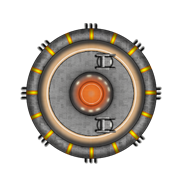
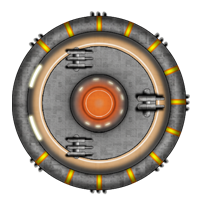
1
1

diff --git a/graphics.js b/graphics.js
@@ -202,7 +202,7 @@ window.graphics = {
 		this.images.xorr.src = "shipIcons/xorr.png";
 
 		this.images.ximm = new Image();
-		this.images.ximm.src = "shipIcons/xorr.png";
+		this.images.ximm.src = "shipIcons/ximm.png";
 
 		this.images.xvell = new Image();
 		this.images.xvell.src = "shipIcons/xvell.png";

diff --git a/server/ships/xonn.php b/server/ships/xonn.php
@@ -27,38 +27,38 @@ class Xonn extends SuperHeavy {
 		$structs = array();
 
 		$front = new Structure($this->getId(), $this->id, 315, 45, 625, 18, 5);
-		$front->systems[] = new AntiProtonPulsar($this->getId(), $this->id, 300, 60);
-		$front->systems[] = new AntiProtonPulsar($this->getId(), $this->id, 300, 60);
+		$front->systems[] = new MediumAntiProtonPulsar($this->getId(), $this->id, 300, 60);
+		$front->systems[] = new MediumAntiProtonPulsar($this->getId(), $this->id, 300, 60);
 		$front->systems[] = new AntimatterCannon($this->getId(), $this->id, 315, 45);
-		$front->systems[] = new AntiProtonPulsar($this->getId(), $this->id, 300, 60);
-		$front->systems[] = new AntiProtonPulsar($this->getId(), $this->id, 300, 60);
+		$front->systems[] = new MediumAntiProtonPulsar($this->getId(), $this->id, 300, 60);
+		$front->systems[] = new MediumAntiProtonPulsar($this->getId(), $this->id, 300, 60);
 		$structs[] = $front;
 
 		$right = new Structure($this->getId(), $this->id, 45, 135, 800, 18, 1);
-		$right->systems[] = new AntiProtonPulsar($this->getId(), $this->id, 30, 150);
-		$right->systems[] = new AntiProtonPulsar($this->getId(), $this->id, 30, 150);
+		$right->systems[] = new MediumAntiProtonPulsar($this->getId(), $this->id, 30, 150);
+		$right->systems[] = new MediumAntiProtonPulsar($this->getId(), $this->id, 30, 150);
 		$right->systems[] = new AntimatterCannon($this->getId(), $this->id, 45, 135);
-		$right->systems[] = new AntiProtonPulsar($this->getId(), $this->id, 30, 150);
-		$right->systems[] = new AntiProtonPulsar($this->getId(), $this->id, 30, 150);
+		$right->systems[] = new MediumAntiProtonPulsar($this->getId(), $this->id, 30, 150);
+		$right->systems[] = new MediumAntiProtonPulsar($this->getId(), $this->id, 30, 150);
 		$structs[] = $right;
 
 		$aft = new Structure($this->getId(), $this->id, 135, 225, 550, 18, 4);
-		$aft->systems[] = new AntiProtonPulsar($this->getId(), $this->id, 120, 240);
+		$aft->systems[] = new MediumAntiProtonPulsar($this->getId(), $this->id, 120, 240);
 		$aft->systems[] = new Hangar($this->getId(), $this->id, 15, array("Zorth"), 15, 2);
-		$aft->systems[] = new AntiProtonPulsar($this->getId(), $this->id, 120, 240);
-	/*	$aft->systems[] = new AntiProtonPulsar($this->getId(), $this->id, 120, 240);
-		$aft->systems[] = new AntiProtonPulsar($this->getId(), $this->id, 120, 240);
+		$aft->systems[] = new MediumAntiProtonPulsar($this->getId(), $this->id, 120, 240);
+	/*	$aft->systems[] = new MediumAntiProtonPulsar($this->getId(), $this->id, 120, 240);
+		$aft->systems[] = new MediumAntiProtonPulsar($this->getId(), $this->id, 120, 240);
 		$aft->systems[] = new AntimatterCannon($this->getId(), $this->id, 135, 225);
-		$aft->systems[] = new AntiProtonPulsar($this->getId(), $this->id, 120, 240);
-		$aft->systems[] = new AntiProtonPulsar($this->getId(), $this->id, 120, 240);
+		$aft->systems[] = new MediumAntiProtonPulsar($this->getId(), $this->id, 120, 240);
+		$aft->systems[] = new MediumAntiProtonPulsar($this->getId(), $this->id, 120, 240);
 	*/	$structs[] = $aft;
 
 		$left = new Structure($this->getId(), $this->id, 225, 315, 800, 18, 1);
-		$left->systems[] = new AntiProtonPulsar($this->getId(), $this->id, 210, 330);
-		$left->systems[] = new AntiProtonPulsar($this->getId(), $this->id, 210, 330);
+		$left->systems[] = new MediumAntiProtonPulsar($this->getId(), $this->id, 210, 330);
+		$left->systems[] = new MediumAntiProtonPulsar($this->getId(), $this->id, 210, 330);
 		$left->systems[] = new AntimatterCannon($this->getId(), $this->id, 225, 315);
-		$left->systems[] = new AntiProtonPulsar($this->getId(), $this->id, 210, 330);
-		$left->systems[] = new AntiProtonPulsar($this->getId(), $this->id, 210, 330);
+		$left->systems[] = new MediumAntiProtonPulsar($this->getId(), $this->id, 210, 330);
+		$left->systems[] = new MediumAntiProtonPulsar($this->getId(), $this->id, 210, 330);
 		$structs[] = $left;
 
 		$turretA = new Turret($this->getId(), $this->id, "Dorsal Turret #1", 0, 360, 220, 14);

diff --git a/server/ships/xill.php b/server/ships/xill.php
@@ -27,29 +27,28 @@ class Xill extends Heavy {
 		$structs = array();
 
 		$front = new Structure($this->getId(), $this->id, 315, 45, 625, 16, 4);
-		$front->systems[] = new AntiProtonPulsar($this->getId(), $this->id, 300, 60);
-		$front->systems[] = new AntimatterCannon($this->getId(), $this->id, 315, 45);
-		$front->systems[] = new AntimatterCannon($this->getId(), $this->id, 315, 45);
-		$front->systems[] = new AntiProtonPulsar($this->getId(), $this->id, 300, 60);
+		$front->systems[] = new MediumAntiProtonPulsar($this->getId(), $this->id, 300, 60);
+		$front->systems[] = new LightAntiProtonPulsar($this->getId(), $this->id, 300, 60);
+		$front->systems[] = new MediumAntiProtonPulsar($this->getId(), $this->id, 300, 60);
 		$structs[] = $front;
 
 		$right = new Structure($this->getId(), $this->id, 45, 135, 800, 16, 1);
-		$right->systems[] = new AntiProtonPulsar($this->getId(), $this->id, 30, 150);
-		$right->systems[] = new AntiProtonPulsar($this->getId(), $this->id, 30, 150);
-		$right->systems[] = new AntiProtonPulsar($this->getId(), $this->id, 30, 150);
+		$right->systems[] = new MediumAntiProtonPulsar($this->getId(), $this->id, 30, 150);
+		$right->systems[] = new LightAntiProtonPulsar($this->getId(), $this->id, 30, 150);
+		$right->systems[] = new MediumAntiProtonPulsar($this->getId(), $this->id, 30, 150);
 		$structs[] = $right;
 
 		$aft = new Structure($this->getId(), $this->id, 135, 225, 550, 14, 3);
-		$aft->systems[] = new AntiProtonPulsar($this->getId(), $this->id, 120, 240);
-		$aft->systems[] = new AntiProtonPulsar($this->getId(), $this->id, 120, 240);
+		$aft->systems[] = new MediumAntiProtonPulsar($this->getId(), $this->id, 120, 240);
+		$aft->systems[] = new LightAntiProtonPulsar($this->getId(), $this->id, 120, 240);
 		//$aft->systems[] = new Hangar($this->getId(), $this->id, 12, array("Zorth"), 12, 1);
-		$aft->systems[] = new AntiProtonPulsar($this->getId(), $this->id, 120, 240);
+		$aft->systems[] = new MediumAntiProtonPulsar($this->getId(), $this->id, 120, 240);
 		$structs[] = $aft;
 
 		$left = new Structure($this->getId(), $this->id, 225, 315, 800, 16, 1);
-		$left->systems[] = new AntiProtonPulsar($this->getId(), $this->id, 210, 330);
-		$left->systems[] = new AntiProtonPulsar($this->getId(), $this->id, 210, 330);
-		$left->systems[] = new AntiProtonPulsar($this->getId(), $this->id, 210, 330);
+		$left->systems[] = new MediumAntiProtonPulsar($this->getId(), $this->id, 210, 330);
+		$left->systems[] = new LightAntiProtonPulsar($this->getId(), $this->id, 210, 330);
+		$left->systems[] = new MediumAntiProtonPulsar($this->getId(), $this->id, 210, 330);
 		$structs[] = $left;
 
 		$turretA = new Turret($this->getId(), $this->id, "Dorsal Main Turret", 0, 360, 160, 12);

diff --git a/server/ships/ximm.php b/server/ships/ximm.php
@@ -27,18 +27,18 @@ class Ximm extends Medium {
 		$structs = array();
 
 		$front = new Structure($this->getId(), $this->id, 300, 60, 625, 14, 2);
-		$front->systems[] = new AntiProtonPulsar($this->getId(), $this->id, 300, 60);
-		$front->systems[] = new AntiProtonPulsar($this->getId(), $this->id, 300, 60);
+		$front->systems[] = new MediumAntiProtonPulsar($this->getId(), $this->id, 300, 60);
+		$front->systems[] = new MediumAntiProtonPulsar($this->getId(), $this->id, 300, 60);
 		$structs[] = $front;
 
 		$right = new Structure($this->getId(), $this->id, 60, 180, 800, 14, 1);
-		$right->systems[] = new AntiProtonPulsar($this->getId(), $this->id, 30, 150);
-		$right->systems[] = new AntiProtonPulsar($this->getId(), $this->id, 30, 150);
+		$right->systems[] = new MediumAntiProtonPulsar($this->getId(), $this->id, 30, 150);
+		$right->systems[] = new MediumAntiProtonPulsar($this->getId(), $this->id, 30, 150);
 		$structs[] = $right;
 
 		$left = new Structure($this->getId(), $this->id, 180, 300, 800, 14,1);
-		$left->systems[] = new AntiProtonPulsar($this->getId(), $this->id, 210, 330);
-		$left->systems[] = new AntiProtonPulsar($this->getId(), $this->id, 210, 330);
+		$left->systems[] = new MediumAntiProtonPulsar($this->getId(), $this->id, 210, 330);
+		$left->systems[] = new MediumAntiProtonPulsar($this->getId(), $this->id, 210, 330);
 		$structs[] = $left;
 
 		$turretA = new Turret($this->getId(), $this->id, "Ventral Main Turret", 0, 360, 160, 11);

diff --git a/server/ships/xorr.php b/server/ships/xorr.php
@@ -27,18 +27,18 @@ class Xorr extends Medium {
 		$structs = array();
 
 		$front = new Structure($this->getId(), $this->id, 300, 60, 625, 14, 2);
-		$front->systems[] = new AntiProtonPulsar($this->getId(), $this->id, 300, 60);
-		$front->systems[] = new AntiProtonPulsar($this->getId(), $this->id, 300, 60);
+		$front->systems[] = new MediumAntiProtonPulsar($this->getId(), $this->id, 300, 60);
+		$front->systems[] = new MediumAntiProtonPulsar($this->getId(), $this->id, 300, 60);
 		$structs[] = $front;
 
 		$right = new Structure($this->getId(), $this->id, 60, 180, 800, 14, 1);
-		$right->systems[] = new AntiProtonPulsar($this->getId(), $this->id, 30, 150);
-		$right->systems[] = new AntiProtonPulsar($this->getId(), $this->id, 30, 150);
+		$right->systems[] = new MediumAntiProtonPulsar($this->getId(), $this->id, 30, 150);
+		$right->systems[] = new MediumAntiProtonPulsar($this->getId(), $this->id, 30, 150);
 		$structs[] = $right;
 
 		$left = new Structure($this->getId(), $this->id, 180, 300, 800, 14,1);
-		$left->systems[] = new AntiProtonPulsar($this->getId(), $this->id, 210, 330);
-		$left->systems[] = new AntiProtonPulsar($this->getId(), $this->id, 210, 330);
+		$left->systems[] = new MediumAntiProtonPulsar($this->getId(), $this->id, 210, 330);
+		$left->systems[] = new MediumAntiProtonPulsar($this->getId(), $this->id, 210, 330);
 		$structs[] = $left;
 
 		$turretA = new Turret($this->getId(), $this->id, "Dorsal Main Turret", 0, 360, 160, 11);

diff --git a/server/ships/xvell.php b/server/ships/xvell.php
@@ -19,9 +19,9 @@ class Xvell extends UltraLight {
 	}
 
 	public function addSystems(){
-	/*	$this->addSubSystem(new AntiProtonPulsar($this->getId(), $this->parentId, 210, 30), 240);
-		$this->addSubSystem(new AntiProtonPulsar($this->getId(), $this->parentId, 270, 90), 0);
-		$this->addSubSystem(new AntiProtonPulsar($this->getId(), $this->parentId, 330, 150), 120);
+	/*	$this->addSubSystem(new MediumAntiProtonPulsar($this->getId(), $this->parentId, 210, 30), 240);
+		$this->addSubSystem(new MediumAntiProtonPulsar($this->getId(), $this->parentId, 270, 90), 0);
+		$this->addSubSystem(new MediumAntiProtonPulsar($this->getId(), $this->parentId, 330, 150), 120);
 	*/
 		$this->addSubSystem(new LightAntiProtonPulsar($this->getId(), $this->parentId, 300, 60), 0);
 		$this->addSubSystem(new LightAntiProtonPulsar($this->getId(), $this->parentId, 300, 60), 0);

diff --git a/autoload.php b/autoload.php
@@ -168,7 +168,7 @@ spl_autoload_register(
                 'heavyplasmapulse' => '/server/systems/weapons/pulse.php',
                 'lightempulse' => '/server/systems/weapons/pulse.php',
                 'lightantiprotonpulsar' => '/server/systems/weapons/pulse.php',
-                'antiprotonpulsar' => '/server/systems/weapons/pulse.php',
+                'mediumantiprotonpulsar' => '/server/systems/weapons/pulse.php',
                 
                 'em' => '/server/systems/weapons/em.php',
                 'twinemprojector' => '/server/systems/weapons/particle.php',

diff --git a/server/systems/weapons/pulse.php b/server/systems/weapons/pulse.php
@@ -48,8 +48,8 @@ class LightAntiProtonPulsar extends Pulse {
 	}
 }
 
-class AntiProtonPulsar extends LightAntiProtonPulsar {
-	public $name = "AntiProtonPulsar";
+class MediumAntiProtonPulsar extends LightAntiProtonPulsar {
+	public $name = "MediumAntiProtonPulsar";
 	public $display = "Anti-Proton Pulsar";
 	public static $prio = 0;
 	public $minDmg = 16;

diff --git a/server/dmgcalc.php b/server/dmgcalc.php
@@ -107,7 +107,7 @@ class DmgCalc {
 			"LightPulse", "MediumPulse", "HeavyPulse", "NeutronPulsar",
 			"LightPlasmaPulse", "MediumPlasmaPulse", "HeavyPlasmaPulse",
 			"MediumRailGun", "HeavyRailGun",
-			"AntiMatterCannon", "AntiProtonPulsar"
+			"AntiMatterCannon", "MediumAntiProtonPulsar"
 		);
 
 		$weapons = array();
